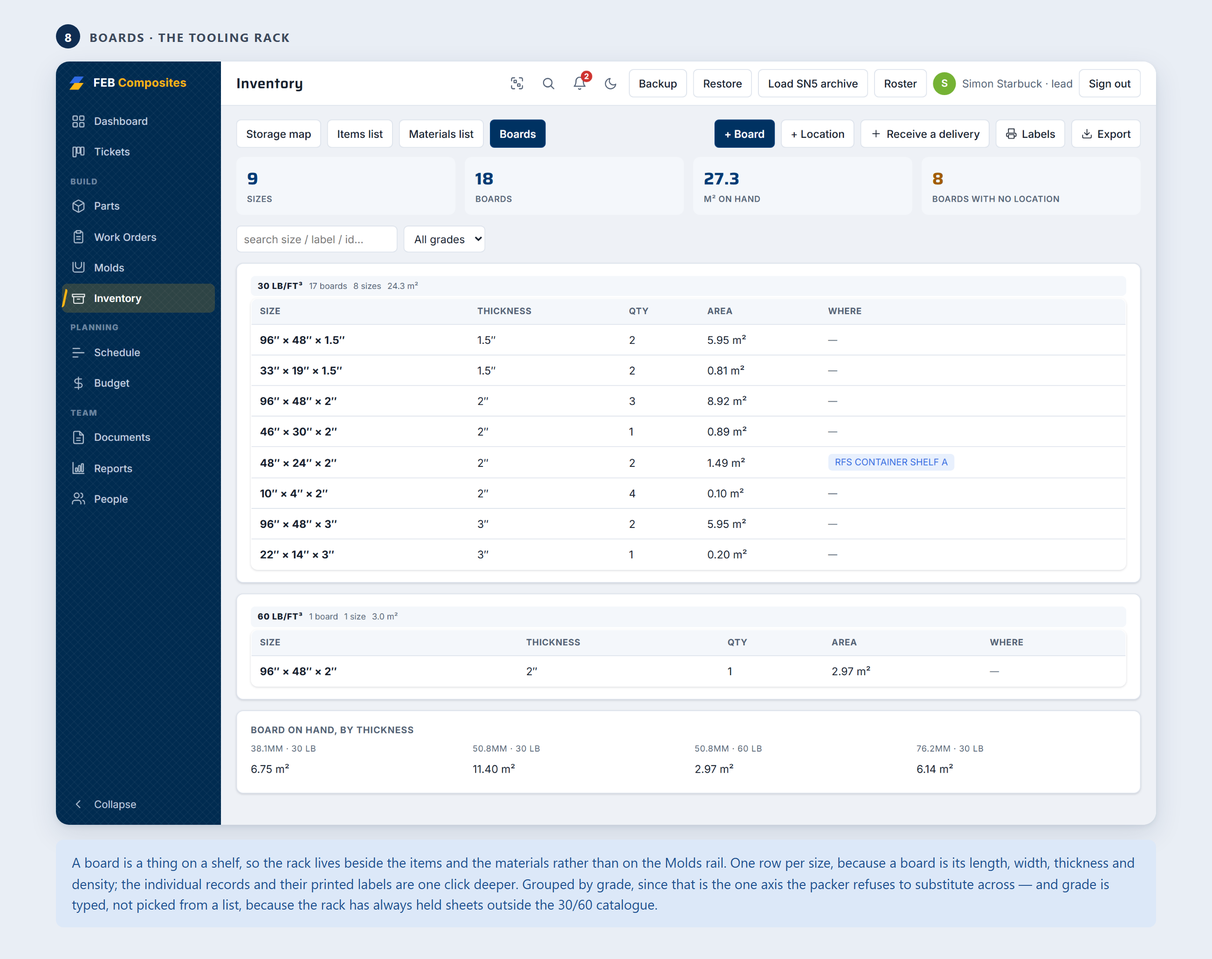
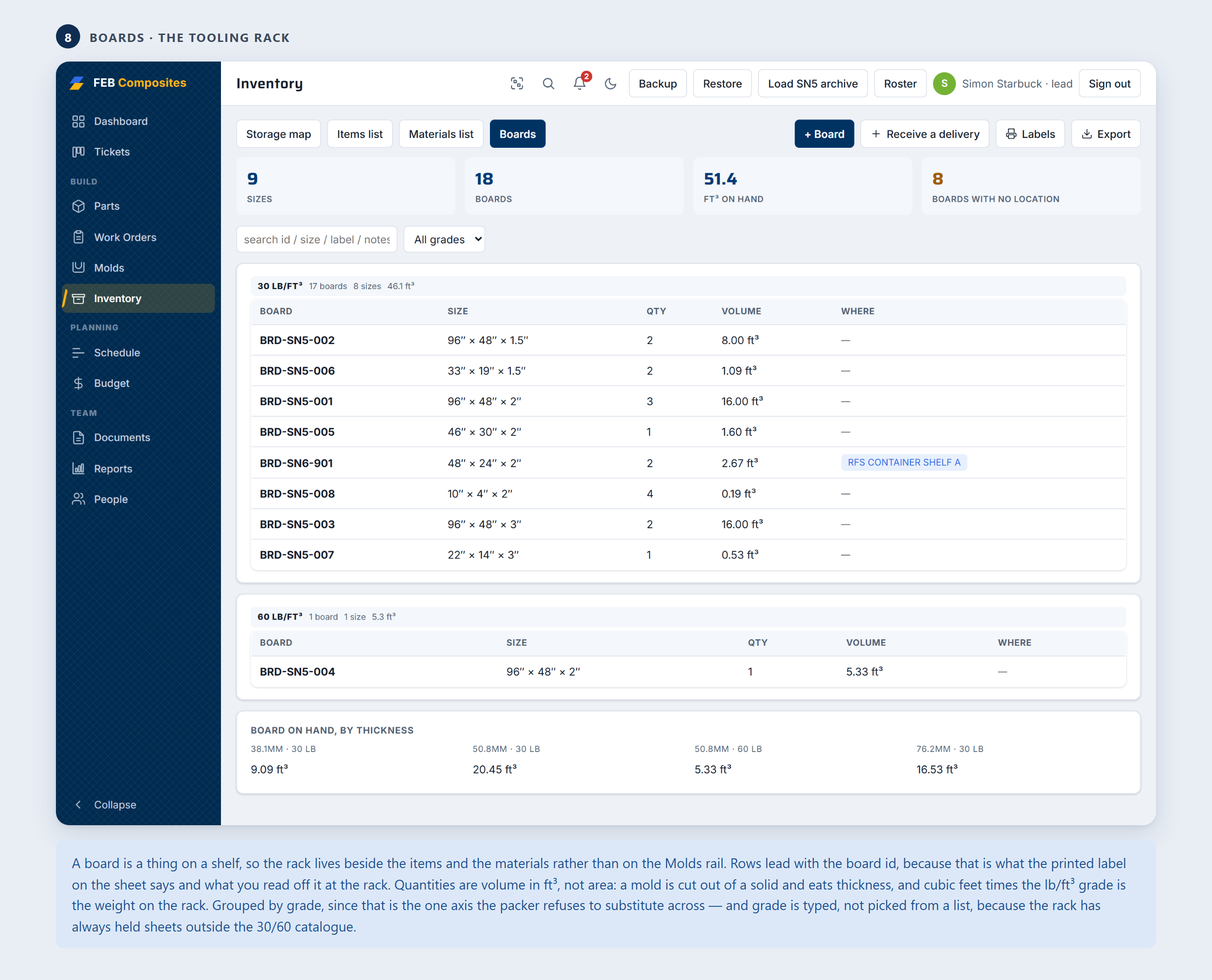
Boards read by id and by volume, take notes, and prefill from the size shown
Four changes to the Boards view, all from how the rack is actually used.

**The id leads the row.** Boards are indexed by the BRD- label stuck to the
sheet, so that is what somebody at the rack reads off it; size follows. A row
is still a size group, so where two records share a size it names the first and
says how many more — in practice that never happens, since the eight archive
records are eight distinct sizes, which is also why leading with the id costs
nothing.

**Volume replaces area, in ft³.** Area was the wrong question: it answers "how
much face", which is what you ask about fabric, but a mold is cut out of a
solid and eats thickness, so a 3in and a 1in sheet of the same face are not the
same stock at all. Cubic feet rather than in³ or litres because density is
already lb/ft³ — the two multiply to the weight on the rack, which the size and
board panes now show alongside. `boardAreaM2` is gone rather than left dead,
and the Molds overview tile switched with it so the same rack is not described
two ways on two tabs.

**Boards take notes.** Free text on the record — a soft corner, a bumpy face,
an off-colour batch, which end is square. It shows truncated under the id in
the list, in full on the board's page, and the list search already matched
member records so notes are searchable for free.

**+ Board this size prefills.** It opened a blank form, so the one thing the
button named was the one thing you had to retype. It now carries the size and
[…]

diff --git a/03 App/app/stock.js b/03 App/app/stock.js
@@ -75,10 +75,18 @@ function parseDim(raw, unit) {
 }
 
 function boardById(id) { return (DB.stock || []).find(b => b.id === id); }
-function boardAreaM2(b) {
-  const l = toMm(b.len), w = toMm(b.wid);
-  if (!Number.isFinite(l) || !Number.isFinite(w)) return 0;
-  return (l * w) / 1e6 * (b.qty || 1);
+/* How much board there IS. Area used to answer this and it is the wrong
+   question: "how much face" is what you ask about fabric, but a mold is cut
+   out of a solid and eats thickness, so a 3in sheet and a 1in sheet of the
+   same face are not remotely the same stock. Cubic feet rather than litres or
+   in³ because density is already lb/ft³ — multiply the two and you have the
+   weight of what is on the rack, in the units the datasheet and the shop both
+   already use. */
+const MM3_PER_FT3 = 28316846.6;
+function boardVolumeFt3(b) {
+  const l = toMm(b.len), w = toMm(b.wid), t = toMm(b.thk);
+  if (![l, w, t].every(Number.isFinite)) return 0;
+  return (l * w * t) / MM3_PER_FT3 * (b.qty || 1);
 }
 // Group key for the summary: boards of the same thickness+density are
 // interchangeable stock, which is exactly the bucket the packer will use.
@@ -111,12 +119,12 @@ function groupBoards(list) {
       const l = toMm(b.len), w = toMm(b.wid);
       m.set(key, {
         key, id: "SZ:" + key, lenMm: Math.max(l, w), widMm: Math.min(l, w),
-        thkMm: toMm(b.thk), density: canonDensity(b.density) ?? 30, qty: 0, m2: 0, members: [],
+        thkMm: toMm(b.thk), density: canonDensity(b.density) ?? 30, qty: 0, ft3: 0, members: [],
       });
     }
     const g = m.get(key);
     g.qty += b.qty || 1;
-    g.m2 += boardAreaM2(b);
+    g.ft3 += boardVolumeFt3(b);
     g.members.push(b);
   }
   return [...m.values()].sort((a, b) => (a.thkMm - b.thkMm)
@@ -135,8 +143,13 @@ function groupLabel(g) {
 }
 
 /* ---------- create / edit ---------- */
-function boardModal(b) {
-  const e = b || {};
+/* `preset` prefills a NEW board without making it an edit: b is still the
+   editing flag, so the footer button and submitBoard's id are unaffected. It
+   carries the size and grade only — "another board this size" means another
+   sheet of that stock, not a copy of that sheet's label, shelf or provenance,
+   and quantity starts at one because you are recording what you just found. */
+function boardModal(b, preset) {
+  const e = b || preset || {};
   const dimRow = (key, label, d) => `
     <div class="field"><label>${label}</label>
       <input id="bd-${key}" value="${esc(d ? d.value : "")}" placeholder="0">
@@ -156,11 +169,23 @@ function boardModal(b) {
         `<option value="${esc(b2.id)}" ${e.location === b2.id ? "selected" : ""}>${esc(b2.name || b2.id)}</option>`).join("")}
     </select></div>
     <div class="field"><label>Where it came from</label><input id="bd-origin" value="${esc(e.origin || "")}" placeholder="work order or mold it came off, if it is a leftover"></div>
+    <div class="field"><label>Notes</label><textarea id="bd-notes" rows="2"
+      placeholder="anything the next person should know — bumpy face, off-colour, a soft corner, which end is square">${esc(e.notes || "")}</textarea></div>
     <div class="field"><label>Unit cost ($, per sheet)</label><input id="bd-unitcost" type="number" inputmode="decimal" step="0.01" min="0" value="${esc(e.unitCost ?? "")}" placeholder="leave blank if unknown"></div>
     <div class="foot"><button onclick="closeModal()">Cancel</button><button class="primary" onclick="submitBoard(${b ? `'${esc(b.id)}'` : "null"})">${b ? "Save" : "Add"}</button></div>
   `);
 }
 function newBoard() { boardModal(null); }
+/* + Board this size, from a size pane. Reads the size back off the group's
+   first member rather than off the synthetic SZ: key, so the new sheet is
+   entered in the units the old one was measured in — the key is canonical mm
+   and would silently retype an inch rack as millimetres. */
+function newBoardLike(gid) {
+  const g = boardGroupByKey(String(gid).replace(/^SZ:/, ""));
+  const m = g && g.members[0];
+  if (!m) { newBoard(); return; }
+  boardModal(null, { len: m.len, wid: m.wid, thk: m.thk, density: m.density });
+}
 function editBoard(id) { const b = boardById(id); if (b) boardModal(b); }
 
 /* Read the modal into a validated board. Returns null (and toasts) on the first
@@ -173,6 +198,7 @@ function readBoardForm() {
     if (r.err) { toast(`${label} ${r.err}.`, "error"); return null; }
     out[key] = r.dim;
   }
+  const notes = String(val("bd-notes")).trim();
   const qty = Number(String(val("bd-qty")).trim() || "1");
   if (!Number.isFinite(qty) || qty < 1 || Math.floor(qty) !== qty) { toast("Quantity must be a whole number, 1 or more.", "error"); return null; }
   const dens = canonDensity(val("bd-density"));
@@ -186,6 +212,7 @@ function readBoardForm() {
     label: String(val("bd-label")).trim(),
     density: dens,
     origin: String(val("bd-origin")).trim(),
+    notes,
     location: String(val("bd-location")).trim(),
   };
 }
@@ -226,7 +253,7 @@ function delBoard(id) {
 
    The renderers live in this file rather than inventory.js because this file
    owns the board data, the modal that edits it, and the eight helpers these
-   panes read (groupBoards, boardSizeKey, groupLabel, boardAreaM2, fmtDim,
+   panes read (groupBoards, boardSizeKey, groupLabel, boardVolumeFt3, fmtDim,
    fmtMm, thkKey, boardById). Moving the rendering "into the Inventory file"
    would split it from its data and make inventory.js reach across for all
    eight. Script order allows the call this way round: stock.js loads first.
@@ -259,7 +286,7 @@ function renderBoardsList() {
     .filter(g => !q || (groupLabel(g) + " " + g.density + " " + JSON.stringify(g.members)).toLowerCase().includes(q));
 
   const boards = groups.reduce((n, g) => n + g.qty, 0);
-  const m2 = groups.reduce((n, g) => n + g.m2, 0);
+  const ft3 = groups.reduce((n, g) => n + g.ft3, 0);
   const homeless = (DB.stock || []).filter(b => !b.location).length;
   const tile = (n, label, cls) => `<div class="stat-tile"><div class="bignum ${cls || ""}">${n}</div><div class="stat-label">${esc(label)}</div></div>`;
 
@@ -267,18 +294,18 @@ function renderBoardsList() {
      is the wrong place to ask it: it is the question you ask standing at the
      rack, deciding whether to cut or to order. */
   const buckets = {};
-  (DB.stock || []).forEach(b => { buckets[thkKey(b)] = (buckets[thkKey(b)] || 0) + boardAreaM2(b); });
+  (DB.stock || []).forEach(b => { buckets[thkKey(b)] = (buckets[thkKey(b)] || 0) + boardVolumeFt3(b); });
   const grades = [...new Set((DB.stock || []).map(b => canonDensity(b.density) ?? 30))].sort((a, b) => a - b);
 
   return `
   <div class="stat-row">
-    ${tile(groups.length, "Sizes")}${tile(boards, "Boards")}${tile(m2.toFixed(1), "m² on hand")}${
+    ${tile(groups.length, "Sizes")}${tile(boards, "Boards")}${tile(ft3.toFixed(1), "ft³ on hand")}${
       /* Amber, not red: a board nobody has given a shelf is a gap to close, not
          a thing that is wrong. Same reading as the dashboard's Unassigned. */
       homeless ? tile(homeless, homeless === 1 ? "board with no location" : "boards with no location", "warn") : ""}
   </div>
   <div class="filters no-print">
-    <input id="searchbox" placeholder="search size / label / id…" value="${esc(view.q || "")}" oninput="searchInput(this)">
+    <input id="searchbox" placeholder="search id / size / label / notes…" value="${esc(view.q || "")}" oninput="searchInput(this)">
     <select title="Board grade" onchange="view.invDens=this.value;render()">
       <option value="">All grades</option>
       ${grades.map(d => `<option value="${d}" ${String(view.invDens) === String(d) ? "selected" : ""}>${d} lb/ft³</option>`).join("")}
@@ -294,16 +321,24 @@ function renderBoardsList() {
       <div class="pgrouphd"><span class="pg-name">${d} lb/ft³</span>
         <span class="pg-n">${gs.reduce((n, g) => n + g.qty, 0)} board${gs.reduce((n, g) => n + g.qty, 0) === 1 ? "" : "s"}</span>
         <span class="pg-n">${gs.length} size${gs.length === 1 ? "" : "s"}</span>
-        <span class="pg-n">${gs.reduce((n, g) => n + g.m2, 0).toFixed(1)} m²</span></div>
+        <span class="pg-n">${gs.reduce((n, g) => n + g.ft3, 0).toFixed(1)} ft³</span></div>
       <table class="list">
-        <tr><th>Size</th><th>Thickness</th><th>Qty</th><th>Area</th><th>Where</th></tr>
+        <tr><th>Board</th><th>Size</th><th>Qty</th><th>Volume</th><th>Where</th></tr>
         ${gs.map(g => {
           const where = [...new Set(g.members.map(b => b.location).filter(Boolean))];
+          /* The id leads, because that is what is printed on the label stuck to
+             the sheet and what anybody standing at the rack reads off it. A row
+             is still a SIZE, so it names the id when the size is one record —
+             which it nearly always is — and says how many records otherwise. */
+          const ids = g.members.map(b => b.id);
+          const lead = ids.length === 1 ? esc(ids[0])
+            : `${esc(ids[0])} <span class="muted tny">+${ids.length - 1} more</span>`;
+          const note = g.members.map(b => b.notes).filter(Boolean)[0] || "";
           return `<tr onclick="selectInvRec('${esc(g.id)}')">
-            <td><b>${esc(groupLabel(g))}</b></td>
-            <td>${fmtMm(g.thkMm)}</td>
+            <td><b>${lead}</b>${note ? `<div class="tny muted">${esc(note.length > 46 ? note.slice(0, 45) + "…" : note)}</div>` : ""}</td>
+            <td>${esc(groupLabel(g))}</td>
             <td>${esc(g.qty)}</td>
-            <td>${g.m2.toFixed(2)} m²</td>
+            <td>${g.ft3.toFixed(2)} ft³</td>
             <td class="tny">${where.length ? where.map(l => shopRefChip(String(l))).join(" ") : `<span class="muted">—</span>`}</td>
           </tr>`;
         }).join("")}
@@ -312,7 +347,7 @@ function renderBoardsList() {
   ${Object.keys(buckets).length ? `<div class="card">
     <h3>Board on hand, by thickness</h3>
     <div class="grid">
-      ${Object.keys(buckets).sort().map(k => `<div class="f"><label>${esc(k)}</label><div class="ro">${buckets[k].toFixed(2)} m²</div></div>`).join("")}
+      ${Object.keys(buckets).sort().map(k => `<div class="f"><label>${esc(k)}</label><div class="ro">${buckets[k].toFixed(2)} ft³</div></div>`).join("")}
     </div>
   </div>` : ""}`;
 }
@@ -331,17 +366,18 @@ function boardSizePane(g) {
   <section class="mddetail" aria-label="Board size detail">
     <div class="toolbar no-print">
       <button class="ib" onclick="clearInvSelection()">${icon("chevronLeft", 16)} All boards</button>
-      <button class="primary ib" onclick="newBoard()">+ Board this size</button>
+      <button class="primary ib" onclick="newBoardLike('${esc(g.id)}')">+ Board this size</button>
     </div>
     <div class="card">
       <h2>${esc(groupLabel(g))}</h2>
-      <div class="muted">${esc(g.density)} lb/ft³ · ${esc(g.qty)} on the rack · ${g.m2.toFixed(2)} m² of face</div>
+      <div class="muted">${esc(g.density)} lb/ft³ · ${esc(g.qty)} on the rack · ${g.ft3.toFixed(2)} ft³</div>
       <div class="grid">
         <div class="f"><label>Length</label><div class="ro">${fmtMm(g.lenMm)} <span class="muted tny">(${Math.round(g.lenMm * 10) / 10} mm)</span></div></div>
         <div class="f"><label>Width</label><div class="ro">${fmtMm(g.widMm)} <span class="muted tny">(${Math.round(g.widMm * 10) / 10} mm)</span></div></div>
         <div class="f"><label>Thickness</label><div class="ro">${fmtMm(g.thkMm)} <span class="muted tny">(${Math.round(g.thkMm * 10) / 10} mm)</span></div></div>
         <div class="f"><label>Density</label><div class="ro">${esc(g.density)} lb/ft³</div></div>
         <div class="f"><label>Quantity</label><div class="ro">${esc(g.qty)}</div></div>
+        <div class="f"><label>Volume</label><div class="ro">${g.ft3.toFixed(2)} ft³ <span class="muted tny">≈ ${Math.round(g.ft3 * (canonDensity(g.density) ?? 30))} lb</span></div></div>
         <div class="f"><label>Stored at</label><div class="ro">${where.length ? where.map(l => shopRefChip(String(l))).join(" ") : "—"}</div></div>
       </div>
       ${usedBy.length ? `<h3>Molds cut from boards this size</h3>
@@ -351,8 +387,10 @@ function boardSizePane(g) {
       <table class="list">
         <tr><th>Board</th><th>Qty</th><th>Where</th><th></th></tr>
         ${g.members.map(b => `<tr>
-          <td onclick="selectInvRec('${esc(b.id)}')"><b>${esc(b.label || b.id)}</b> <span class="muted tny">${esc(b.id)}</span>${
-            b.origin ? ` <span class="muted tny">· from ${esc(b.origin)}</span>` : ""}</td>
+          <td onclick="selectInvRec('${esc(b.id)}')"><b>${esc(b.id)}</b>${
+            b.label ? ` <span class="muted tny">${esc(b.label)}</span>` : ""}${
+            b.origin ? ` <span class="muted tny">· from ${esc(b.origin)}</span>` : ""}${
+            b.notes ? `<div class="tny muted">${esc(b.notes)}</div>` : ""}</td>
           <td>${esc(b.qty || 1)}</td>
           <td class="tny">${b.location ? shopRefChip(String(b.location)) : "—"}</td>
           <td>${labelBtn("stock", b.id)}<button class="ib sm" onclick="editBoard('${esc(b.id)}')">${icon("edit", 14)}</button>${
@@ -379,9 +417,9 @@ function boardPane(b) {
       ${isLead() ? `<button class="danger" onclick="delBoard('${esc(b.id)}')">Delete</button>` : ""}
     </div>
     <div class="card" data-lbgroup="stock:${esc(b.id)}">
-      <h2>${esc(b.label || b.id)}</h2>
-      <div class="muted">${esc(b.id)}${
-        b.ts ? " · added " + fmtWhen(b.ts) : ""}${b.createdBy ? " by " + esc(b.createdBy) : ""}</div>
+      <h2>${esc(b.id)}</h2>
+      <div class="muted">${b.label ? esc(b.label) + " · " : ""}${
+        b.ts ? "added " + fmtWhen(b.ts) : ""}${b.createdBy ? " by " + esc(b.createdBy) : ""}</div>
       <h3>Details</h3>
       <div class="grid">
         <div class="f"><label>Length</label><div class="ro">${fmtDim(b.len)}</div></div>
@@ -389,10 +427,11 @@ function boardPane(b) {
         <div class="f"><label>Thickness</label><div class="ro">${fmtDim(b.thk)}</div></div>
         <div class="f"><label>Density</label><div class="ro">${esc(canonDensity(b.density) ?? b.density)} lb/ft³</div></div>
         <div class="f"><label>Quantity</label><div class="ro">${esc(b.qty || 1)}</div></div>
-        <div class="f"><label>Area</label><div class="ro">${boardAreaM2(b).toFixed(2)} m²</div></div>
+        <div class="f"><label>Volume</label><div class="ro">${boardVolumeFt3(b).toFixed(2)} ft³ <span class="muted tny">≈ ${Math.round(boardVolumeFt3(b) * (canonDensity(b.density) ?? 30))} lb</span></div></div>
         <div class="f"><label>Stored at</label><div class="ro">${b.location ? shopRefChip(String(b.location)) : "—"}</div></div>
         ${b.origin ? `<div class="f"><label>From</label><div class="ro">${esc(b.origin)}</div></div>` : ""}
       </div>
+      ${b.notes ? `<h3>Notes</h3><p class="ro">${esc(b.notes)}</p>` : ""}
       ${usedBy.length ? `<h3>Molds cut from this board</h3>
         <div class="stagerow">${usedBy.map(m => `<span class="chip" onclick="openRecord('molds','${esc(m.id)}')">${esc(m.name || m.id)}</span>`).join("")}</div>` : ""}
     </div>

diff --git a/03 App/app/molds.js b/03 App/app/molds.js
@@ -16,7 +16,7 @@
    already been bucketing DB.stock by location for its storage map and its
    contents pages. Only the list sat here. It now lives in Inventory beside
    Items list and Materials list (see the Boards section of stock.js); Molds
-   keeps one number, the m² on hand, as a tile that opens it. A mold's "cut
+   keeps one number, the ft³ on hand, as a tile that opens it. A mold's "cut
    from board" chip and a scanned BRD- label still resolve — moldsOrBoardsFor
    in core.js routes them to Inventory, so nothing dead-ends the way it did
    before boards had a detail page at all.
@@ -288,7 +288,7 @@ function moldsOverview() {
   const live = molds.filter(m => m.stage !== "Retired");
   const ready = live.filter(m => m.stage === "Ready for layup").length;
   const noHome = live.filter(m => !m.location).length;
-  const m2 = (DB.stock || []).reduce((n, b) => n + boardAreaM2(b), 0);
+  const ft3 = (DB.stock || []).reduce((n, b) => n + boardVolumeFt3(b), 0);
 
   const tile = (n, label, cls) => `<div class="stat-tile"><div class="bignum ${cls || ""}">${n}</div><div class="stat-label">${esc(label)}</div></div>`;
   /* The one board number Molds still carries. The rack itself is Inventory's
@@ -296,7 +296,7 @@ function moldsOverview() {
      stays here and the tile is the way through to the list. */
   const boardTile = `<div class="stat-tile" role="button" tabindex="0" title="Open the rack in Inventory"
       onclick="view={...view,tab:'inventory',invView:'boards',mode:'list',id:null,q:''};render();syncUrl()">
-    <div class="bignum">${m2.toFixed(1)}</div><div class="stat-label">m² board on hand ▸</div></div>`;
+    <div class="bignum">${ft3.toFixed(1)}</div><div class="stat-label">ft³ board on hand ▸</div></div>`;
 
   // Where the live molds stand, MOLD_STAGE order — the parts-tab bar idiom.
   // Shared with the Dashboard's Season panel, so it lives in its own function.

diff --git a/README.md b/README.md
@@ -60,7 +60,7 @@ up top, then Build, Planning, and Team):
 - **Work Orders:** the manufacturing traveler, as a split view like Parts and Molds. The rail indexes every run grouped by the part it builds, so the tab reads as the part → run → mold hierarchy; each row carries how far through its buy-offs it is, and whether it is blocked or curing. Parts nobody has started show up too, with the button that starts one. Group, sort and filter are yours to set. The pane keeps the whole record in one scroll, Steps first because that is the bench action, but each section is its own card now, headed by a gold-slashed label carrying the same count and attention word the jump bar shows. A hero band under the title answers the five questions people come for: status as a colored dropdown (no edit mode needed), a steps progress bar, due date, mass actual against target, and the engineers' faces. Blockers and cure holds finally look different (a blocker is a person, amber; a hold is the clock, slate), signed steps compress to one line with their history a tap away, and the next step to act on wears a gold NOW badge and the page's only loud buy-off button. Photos are a first-class record: every step row has a camera button and a thumb strip, a Photos section collects everything on the record grouped by step, and declining "sign without a photo?" opens the camera and finishes the buy-off once the photo lands. Reference blocks (BOM, event log) fold behind counted summaries; quality and files fold only when empty; the note thread lives in its own card. Layup stack, BOM, step buy-offs stamped with who signed, blocker steps, and enforced cure holds backed by the datasheets in `resins.js`. Prints to a hand-fillable sheet that is always exactly two pages.
 - **Parts:** the season tracker as a split view: every part down the left, the selected one beside it, each stage a row of steps you click. Arrow keys walk the list; `1`/`2`/`3` advance the stages.
 - **Molds:** a split view of every mold, the rail grouped by the stage each one is at so it reads as the pipeline it is. A mold carries stage, home location, sealing record and parts pulled, plus its mold file — the stack plan it is cut from, with the plans it superseded still openable and marked as such. The mold file is genuinely part of the mold: the rotatable 3D view of the mold sitting inside its stock, the exploded stack and the blanks table are all on the mold's own page rather than a click away on a separate plan record. Only a plan with no mold to be reached through gets a row of its own. One "+ Mold" button covers planning from an STL, from typed dimensions, or recording a mold that has no CAD yet. With nothing selected the pane adds "Needs a hand": molds with no home location, molds machined with no stack plan on file, plans carrying a slicer warning nobody has read, and plans with no mold. Board grade is typed rather than picked from a list, because the rack has always held sheets outside the 30/60 pcf catalogue. The drawing set is a general view (assembled stock with the mold hatched inside it and waterline section contours, plus a mold-only inset), a third-angle three-view, and one placement sheet per board. The planner takes a mold STL, picks boards, splits at the ShopSabre depth limit, prints a numbered cut list, and creates the mold record at "Designed". Blanks are sawn to whole half-inch increments so a person with a tape can cut them, which also puts every cut position on an eighth-inch mark. The cut list opens the board that costs least, scoring both the material spent and the option value destroyed: a big board is the only thing that can hold a big blank, so spending one on small blanks is charged for. When the sawdust settles, "Mark these boards cut" executes the list: cut boards leave the rack, every reusable offcut goes back on it as a new board row with its provenance, and one Undo restores the exact rack.
-- **Inventory:** the storage map, and the shop's answer to "where is the 195 twill". One card per shelf, rack and bin, grouped by site, each showing what is on it and what is wrong with it — expired lots, resin and hardener together, flammables outside the rated cabinet. Search matches a shelf on what is ON it, so a material name leaves the shelves that have some; cards sort so that what is wrong comes first, clicking anywhere on a card opens that shelf, and the monthly stock walk is one click from the card. Every location shows on the map — an empty shelf is a quieter card, not a hidden one — and new shelves are added here rather than from the items list. Beside the map are three flat lists: items, materials, and **boards** — the tooling rack, one row per size since a board is its length, width, thickness and density, grouped by grade because that is the one axis the packer refuses to substitute across. The individual board records, and their printed labels, are one click deeper. **Receiving** is a page rather than a dialog: a spreadsheet-shaped sheet where a mixed order goes onto many different shelves in one pass, quantity fans out by class as you type (three rolls become three labelled records, a box of tape becomes one with a count), and the CS-011 §6 chemical checks run before anything is written. **Running out** is measured per material rather than per jug — which is what finally makes "we are completely out of MEKP" something the app can say — and turns into a Restock purchase that cancels its own reorder row when the delivery lands. Everything exports to CSV or straight onto the clipboard for a Google Sheet.
+- **Inventory:** the storage map, and the shop's answer to "where is the 195 twill". One card per shelf, rack and bin, grouped by site, each showing what is on it and what is wrong with it — expired lots, resin and hardener together, flammables outside the rated cabinet. Search matches a shelf on what is ON it, so a material name leaves the shelves that have some; cards sort so that what is wrong comes first, clicking anywhere on a card opens that shelf, and the monthly stock walk is one click from the card. Every location shows on the map — an empty shelf is a quieter card, not a hidden one — and new shelves are added here rather than from the items list. Beside the map are three flat lists: items, materials, and **boards** — the tooling rack, led by the board id that its printed label carries, grouped by grade because that is the one axis the packer refuses to substitute across, and measured in volume rather than area because a mold is cut out of a solid and eats thickness. Every board takes free notes, for the soft corner or the bumpy face. **Receiving** is a page rather than a dialog: a spreadsheet-shaped sheet where a mixed order goes onto many different shelves in one pass, quantity fans out by class as you type (three rolls become three labelled records, a box of tape becomes one with a count), and the CS-011 §6 chemical checks run before anything is written. **Running out** is measured per material rather than per jug — which is what finally makes "we are completely out of MEKP" something the app can say — and turns into a Restock purchase that cancels its own reorder row when the delivery lands. Everything exports to CSV or straight onto the clipboard for a Google Sheet.
 - **Schedule:** the production schedule, two views behind a toggle: the season as a station-by-week grid ("when is the ShopSabre free" is one horizontal scan) and the week by day, subteam and person.
 - **Budget:** purchases through Submitted, Ordered and Reimbursed, with a receipt-scan button on phones.
 - **Documents:** datasheets, CS standards and printables in one filterable shelf, plus pinned Google Docs. Paste a Drive URL anywhere in the app and it resolves the title and offers a preview, with no Google sign-in.

diff --git a/03 App/app/README.md b/03 App/app/README.md
@@ -439,17 +439,33 @@ The fourth toggle is the tooling rack, which used to be a third group on the
 Molds rail. A board is a thing on a shelf, and this is where the shelves are.
 
 A full 4×8 sheet and an offcut are the same kind of record, so remnants come
-back into stock instead of piling up. The list is one row per **size**, because
-a board is its length, width, thickness and density; the individual documents
-are one click deeper, because a BRD- label is stuck to a physical board and a
-mold points at the one it was cut from. Sizes are grouped by **grade**, since
-that is the one axis the packer refuses to substitute across (CS-004 — 60lb
-seals better, and you cannot swap it in silently), which makes it the axis that
-decides whether a job can be cut at all.
+back into stock instead of piling up. Rows lead with the **board id** — that is
+what the printed label on the sheet says, and what you read off it standing at
+the rack — followed by the size. A row is still one **size**, so where two
+records happen to share a size it names the first and says how many more; open
+it and the individual boards are listed, because a BRD- label is stuck to a
+physical board and a mold points at the one it was cut from. Sizes are grouped
+by **grade**, since that is the one axis the packer refuses to substitute
+across (CS-004 — 60lb seals better, and you cannot swap it in silently), which
+makes it the axis that decides whether a job can be cut at all.
 
-Molds keeps exactly one number: the m² on hand, as a tile that opens this list.
-"Have we got board" is a mold-making question even though the rack is not a
-mold-making record.
+Quantities are **volume in ft³**, not area. A mold is cut out of a solid and
+eats thickness, so a 3in and a 1in sheet of the same face are not the same
+stock at all. Cubic feet because density is already lb/ft³: the two multiply to
+the weight of what is on the rack, which the panes show alongside.
+
+Every board carries a free **notes** field — a soft corner, a bumpy face, an
+off-colour batch, which end is square. Notes show under the id in the list and
+in full on the board's own page, and the search box matches them.
+
+**+ Board this size**, on a size page, opens the form already filled in with
+that size and grade, in the units it was measured in. Label, shelf and
+provenance stay blank, and quantity starts at one: it is another sheet of that
+stock, not a copy of that sheet.
+
+Molds keeps exactly one number: the ft³ on hand, as a tile that opens this
+list. "Have we got board" is a mold-making question even though the rack is not
+a mold-making record.
 
 #### Receiving
 
